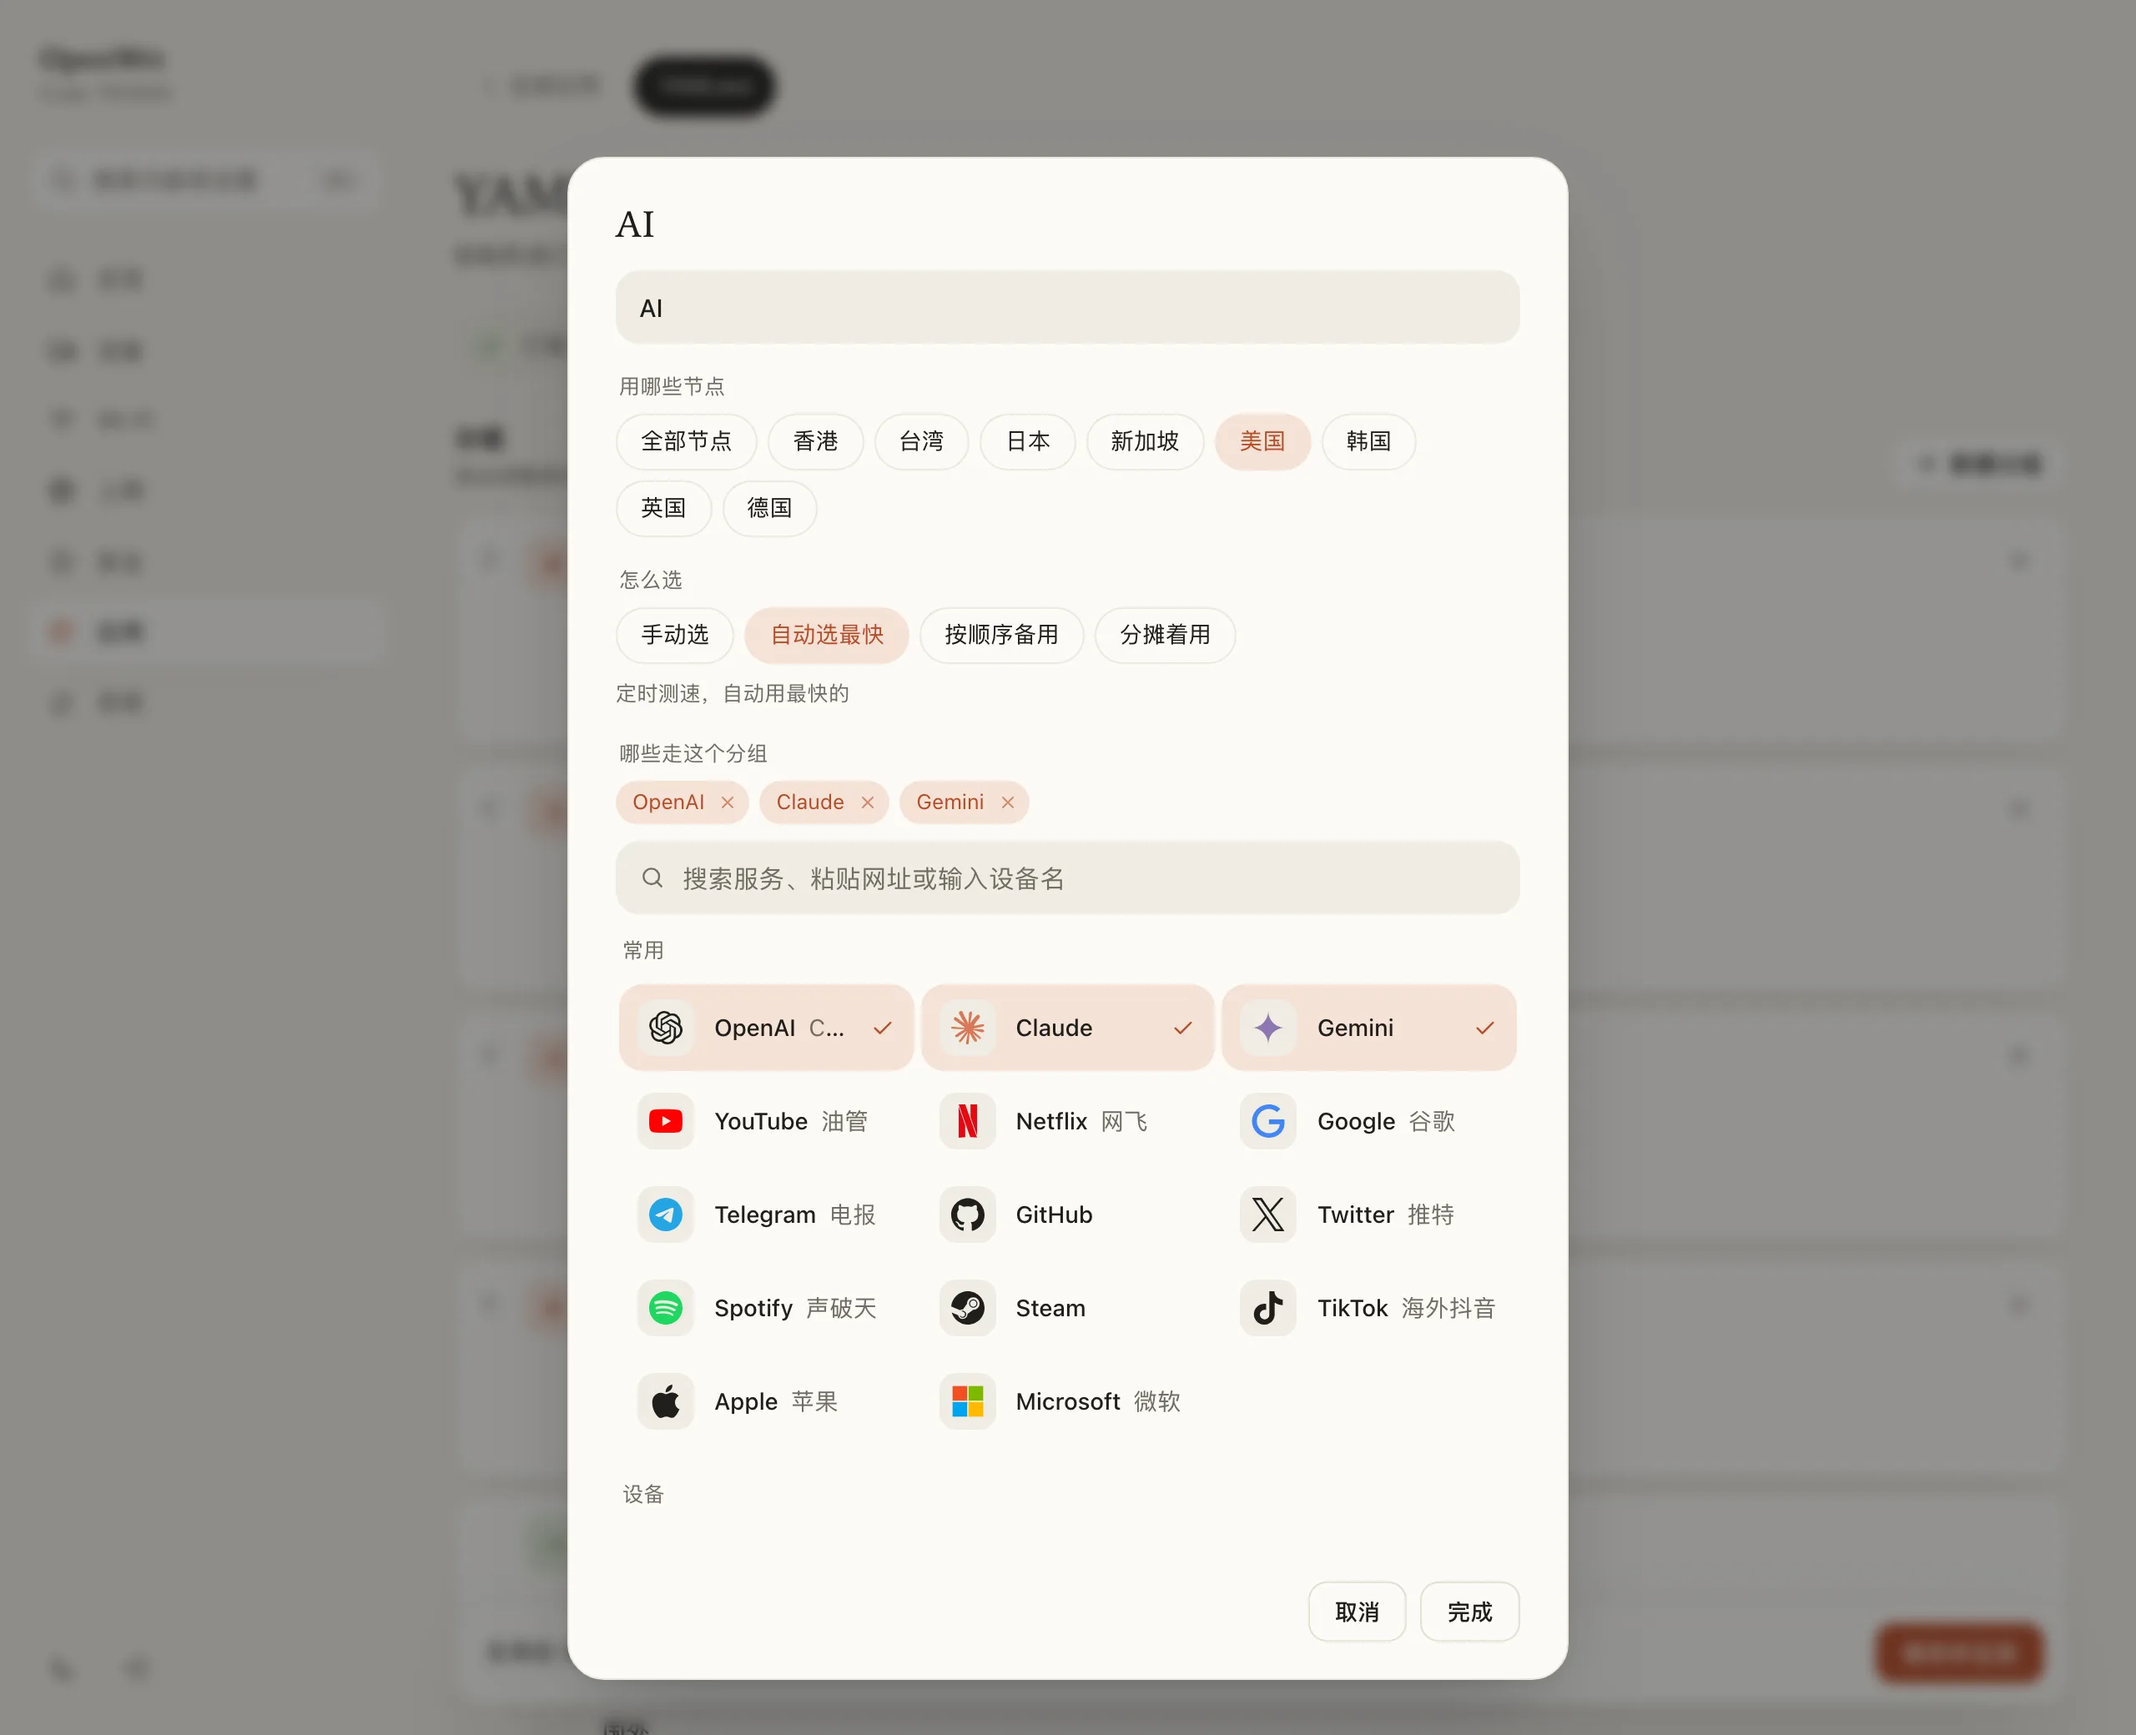
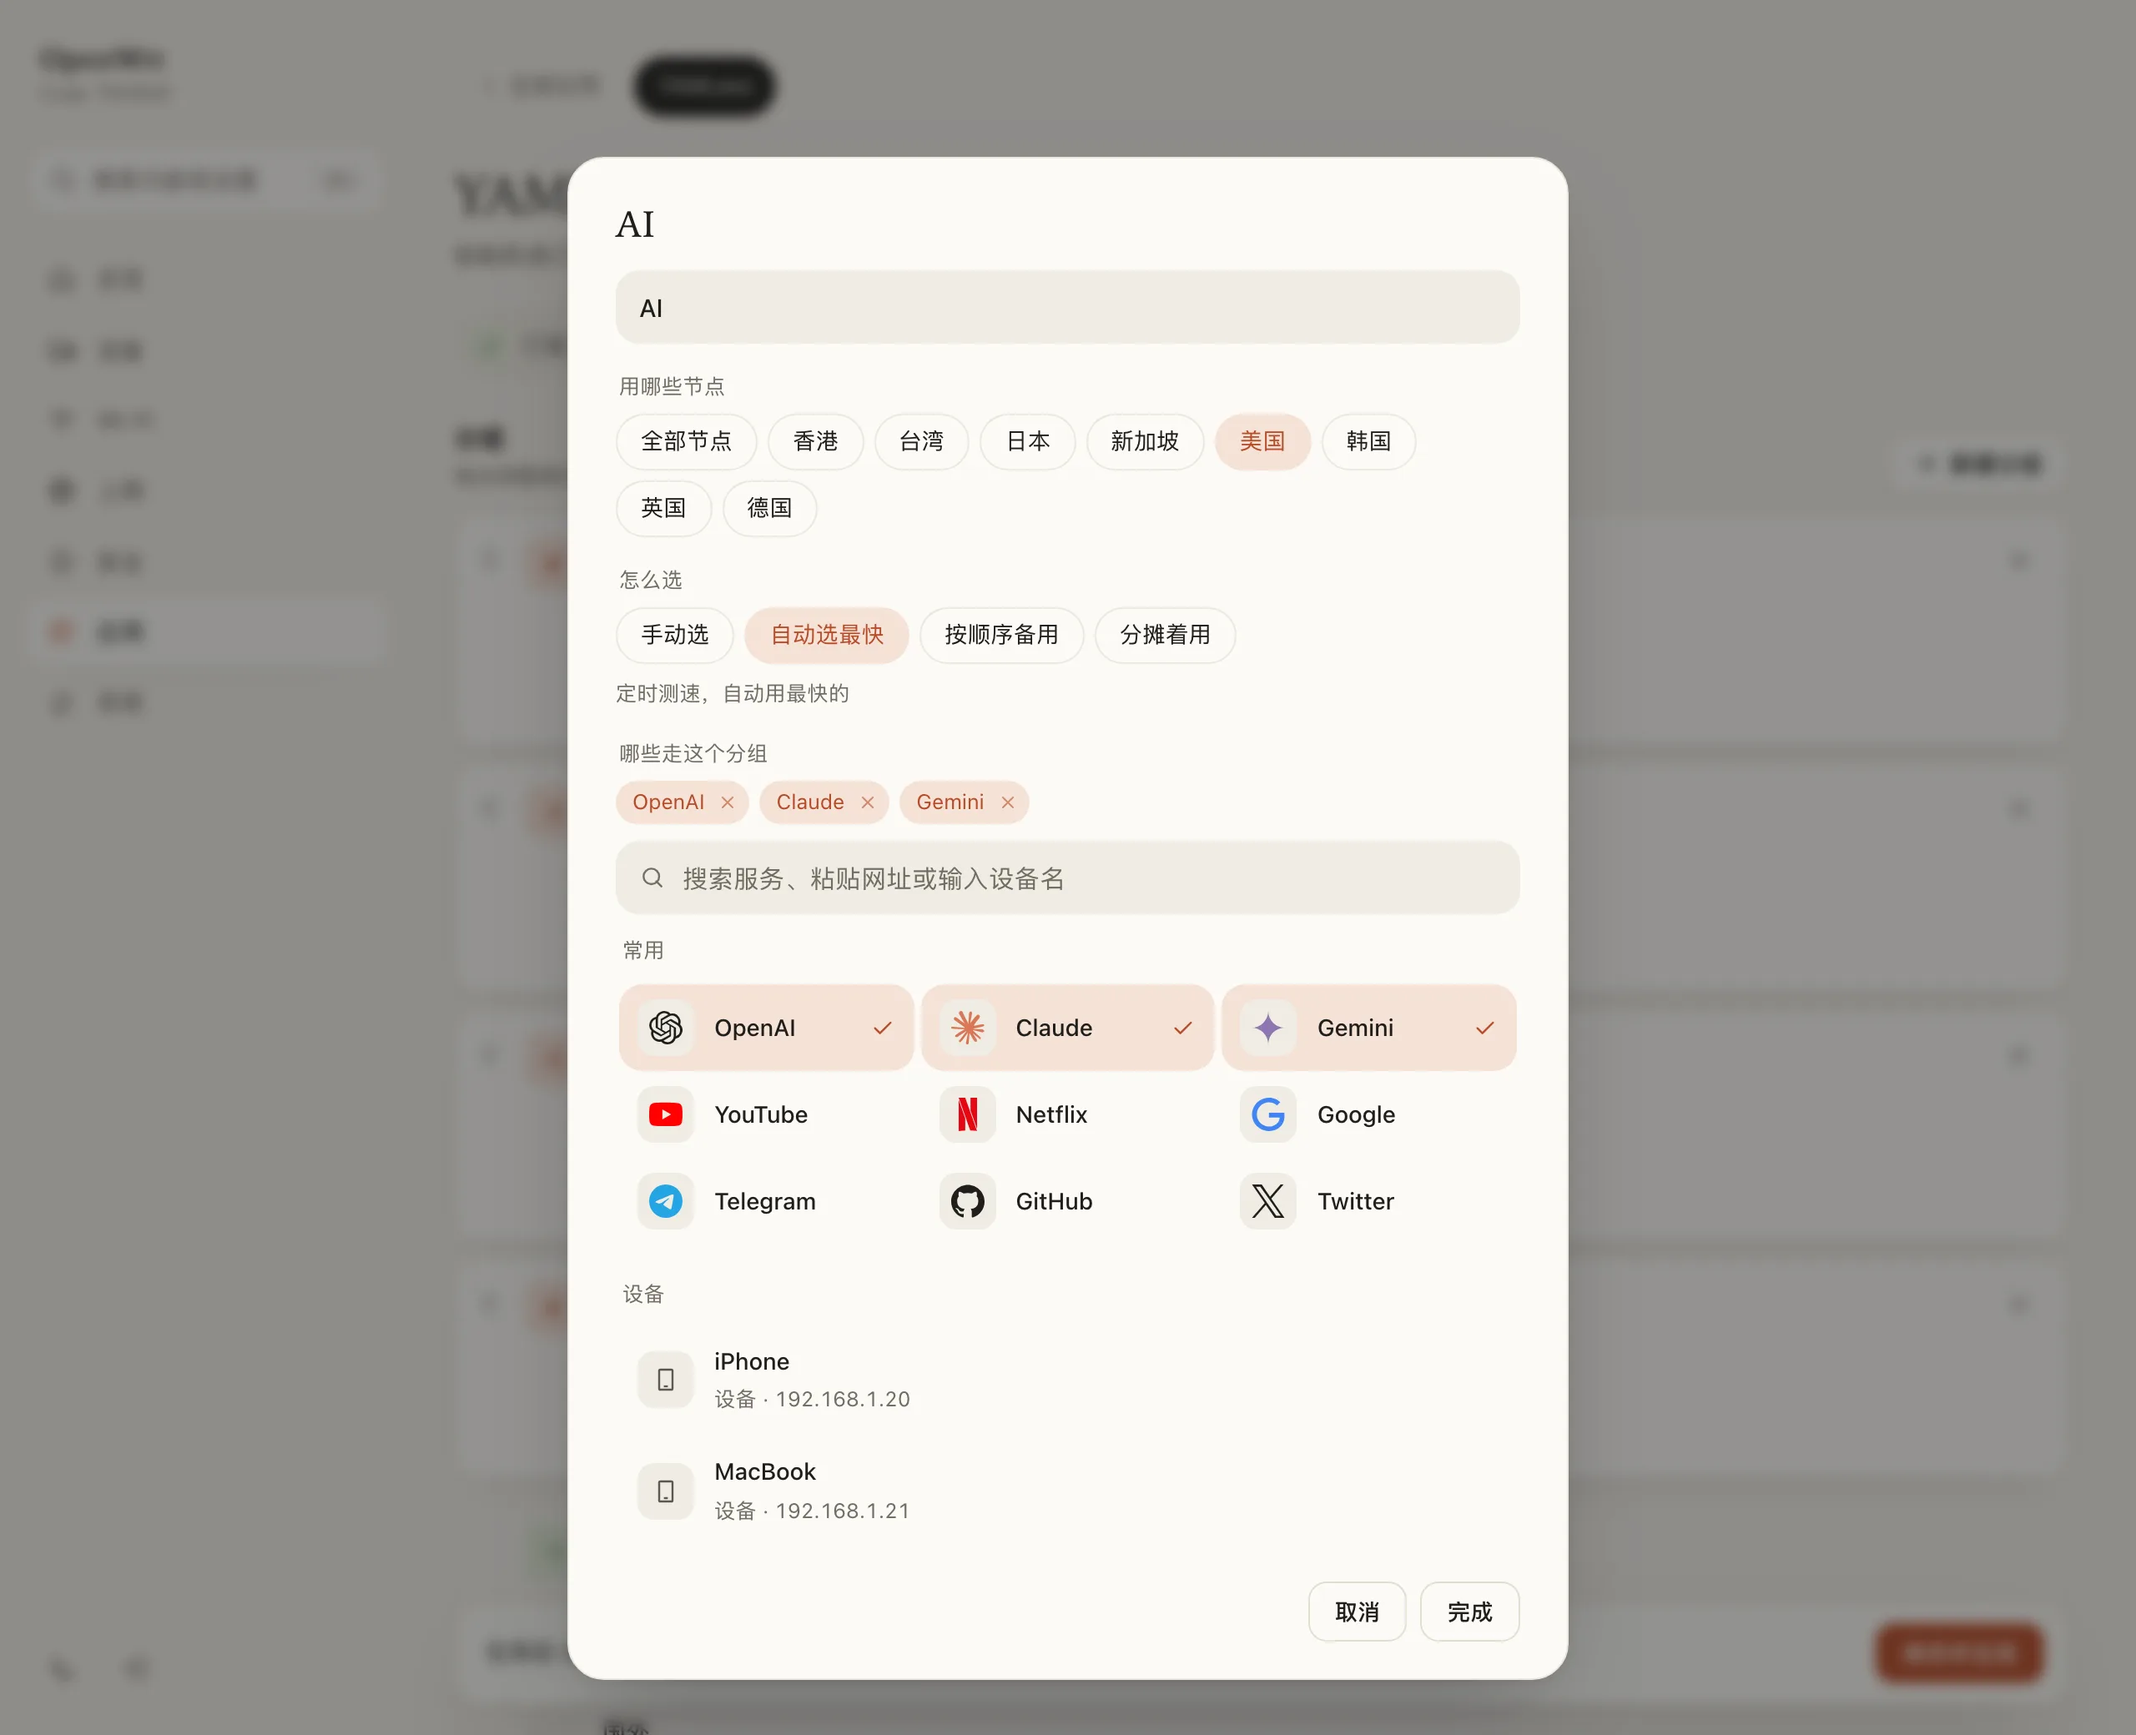
Built-in 直连 and 国外 drawn as outlines; Popular shows three rows

diff --git a/htdocs/luci-static/resources/yamless/rules.css b/htdocs/luci-static/resources/yamless/rules.css
@@ -81,8 +81,9 @@
 .sr-m.add:hover{color:var(--a2);border-color:var(--a)}
 .sr-m.add svg{width:13px;height:13px}
 .sr-none{color:var(--i3);font-size:12.5px}
-.sr-rest{margin-top:4px;background:none;box-shadow:none;border-style:dashed}
-.sr-dir,.sr-rest{padding-left:42px}
+/* 直连 and 国外 are built in: drawn as outlines, set apart from the groups you make */
+.sr-dir,.sr-rest{padding-left:42px;background:none;box-shadow:none;border-style:dashed}
+.sr-dir{margin-top:4px}
 .sr-x{display:grid;place-items:center;width:30px;height:30px;padding:0;border:0;border-radius:8px;background:none;color:var(--i3);cursor:pointer;flex:none}
 .sr-x:hover{background:var(--bds);color:var(--bd)}
 
@@ -124,8 +125,9 @@
 .sr-hit:hover,.sr-hit:focus-visible{background:var(--s2);outline:0}
 .sr-hit[aria-pressed=true]{background:var(--as)}
 .sr-hit>svg{color:var(--a2)}
-.sr-pop{display:grid;grid-template-columns:repeat(auto-fill,minmax(150px,1fr));gap:4px}
-.sr-pop small{display:none}
+/* three rows of popular services, as many as fit; search finds the rest */
+.sr-pop{display:grid;grid-template-columns:repeat(auto-fill,minmax(150px,1fr));grid-template-rows:repeat(3,auto);grid-auto-rows:0;align-items:start;gap:0 4px;overflow:clip;flex:none}
+.sr-pop small,.sr-pop em{display:none}
 .sr-hits>.sr-none{text-align:center;padding:30px 0}
 .sr-err{color:var(--bd);font-size:13px;margin:10px 0 0}
 .sr-err[hidden]{display:none}
